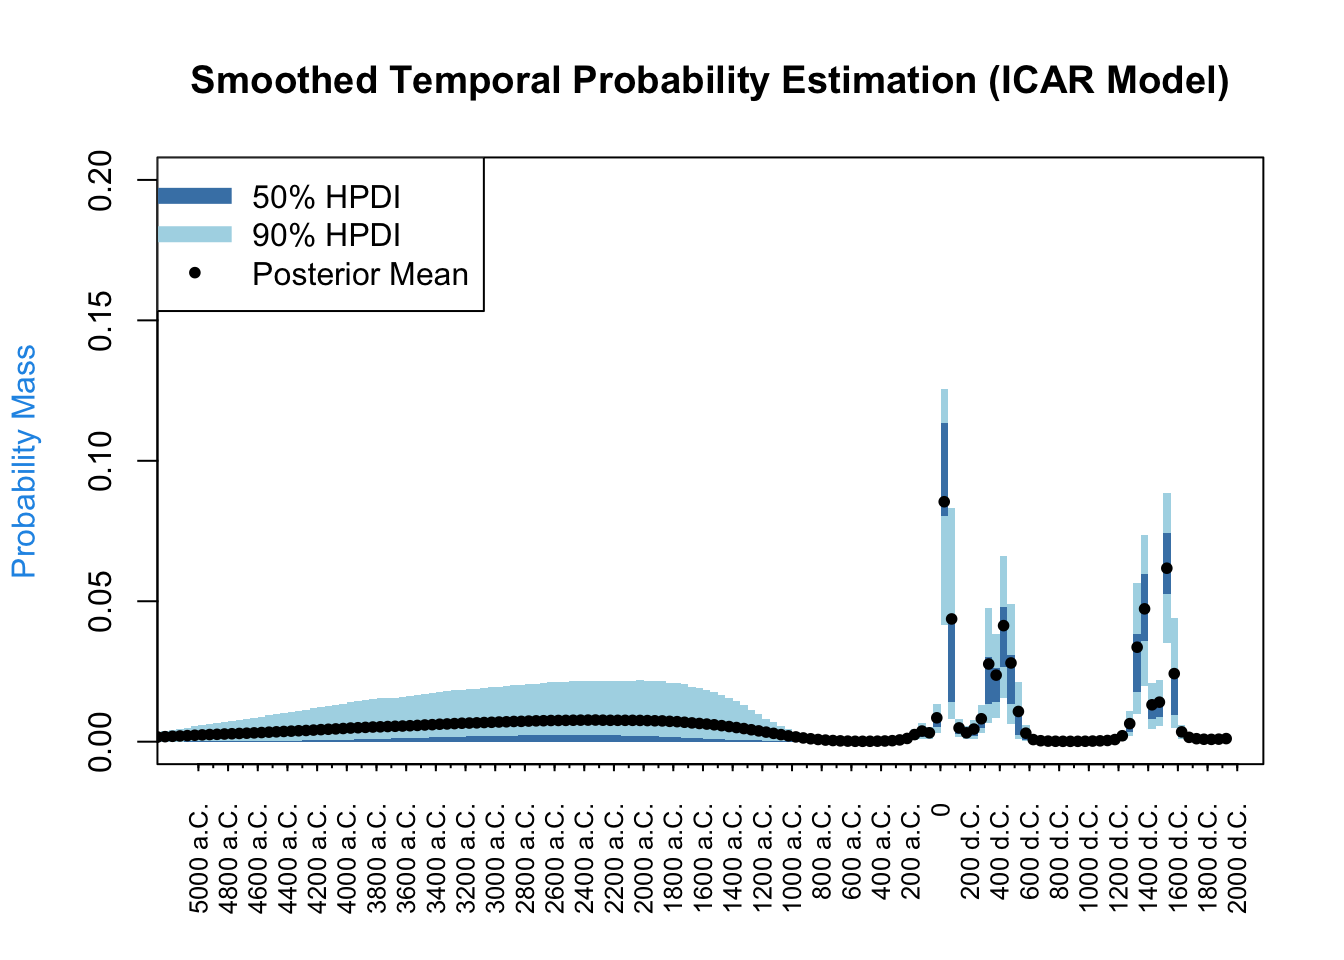
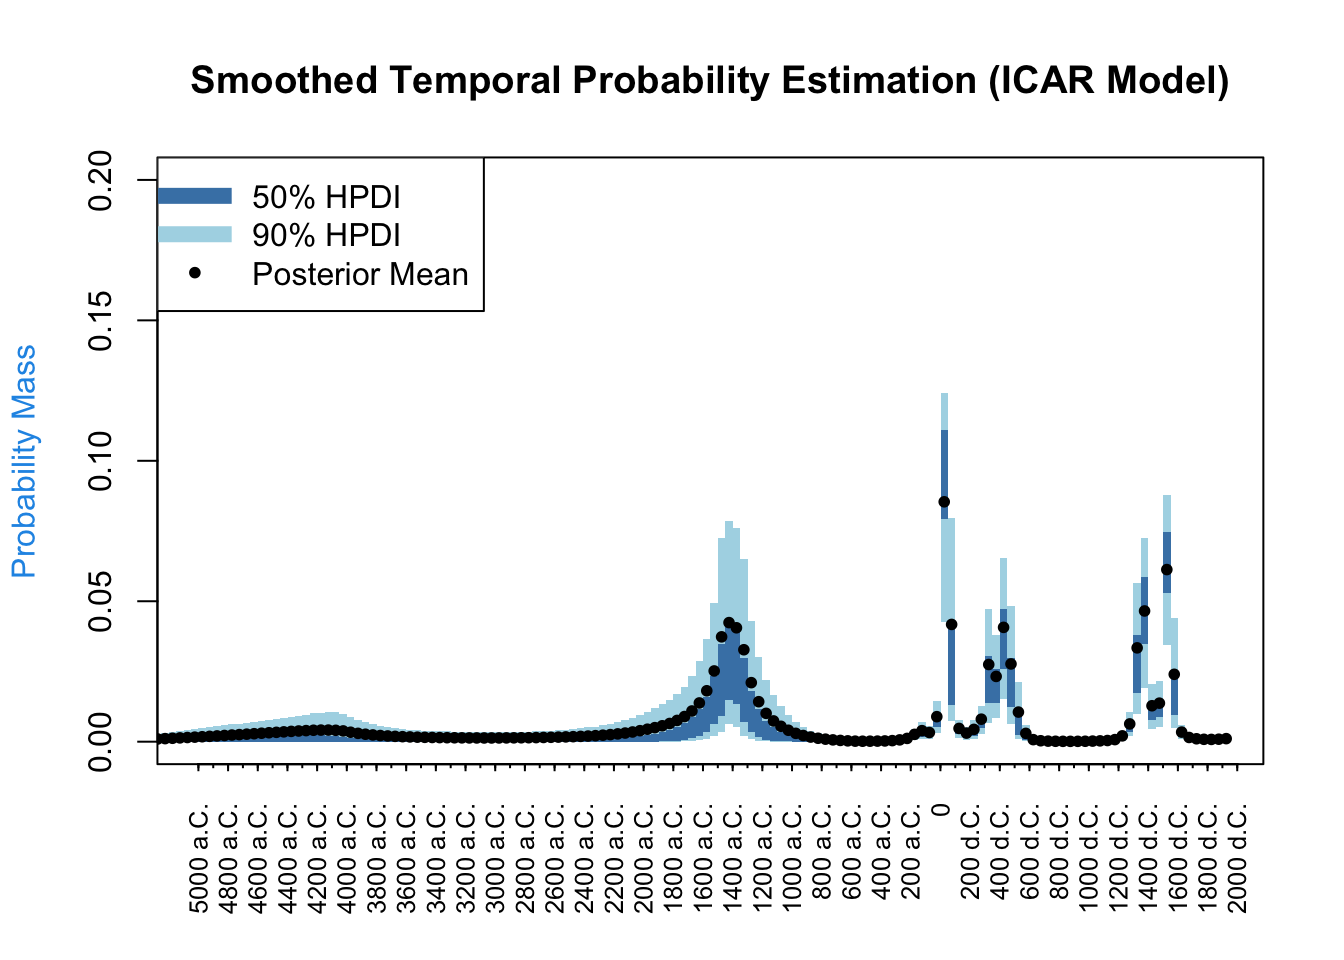
New chronology after impasto study

Changed region(s): [[0.125, 0.5312, 0.625, 0.7812], [0.6875, 0.625, 0.7188, 0.6562]]

diff --git a/chronology.html b/chronology.html
@@ -156,7 +156,7 @@ ul.task-list li input[type="checkbox"] {
     <div>
     <div class="quarto-title-meta-heading">Data di Pubblicazione</div>
     <div class="quarto-title-meta-contents">
-      <p class="date">6 marzo 2025</p>
+      <p class="date">13 marzo 2025</p>
     </div>
   </div>
   
